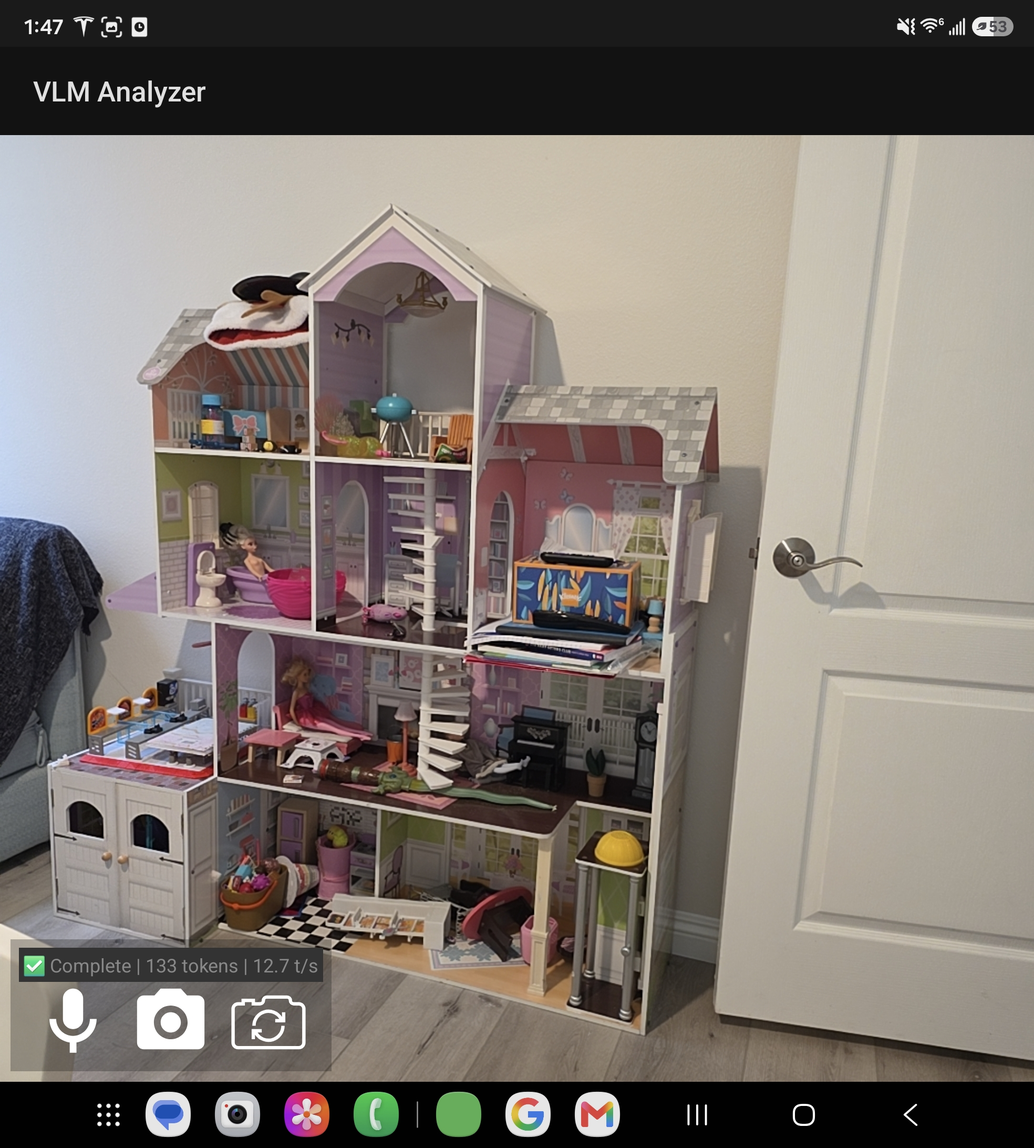
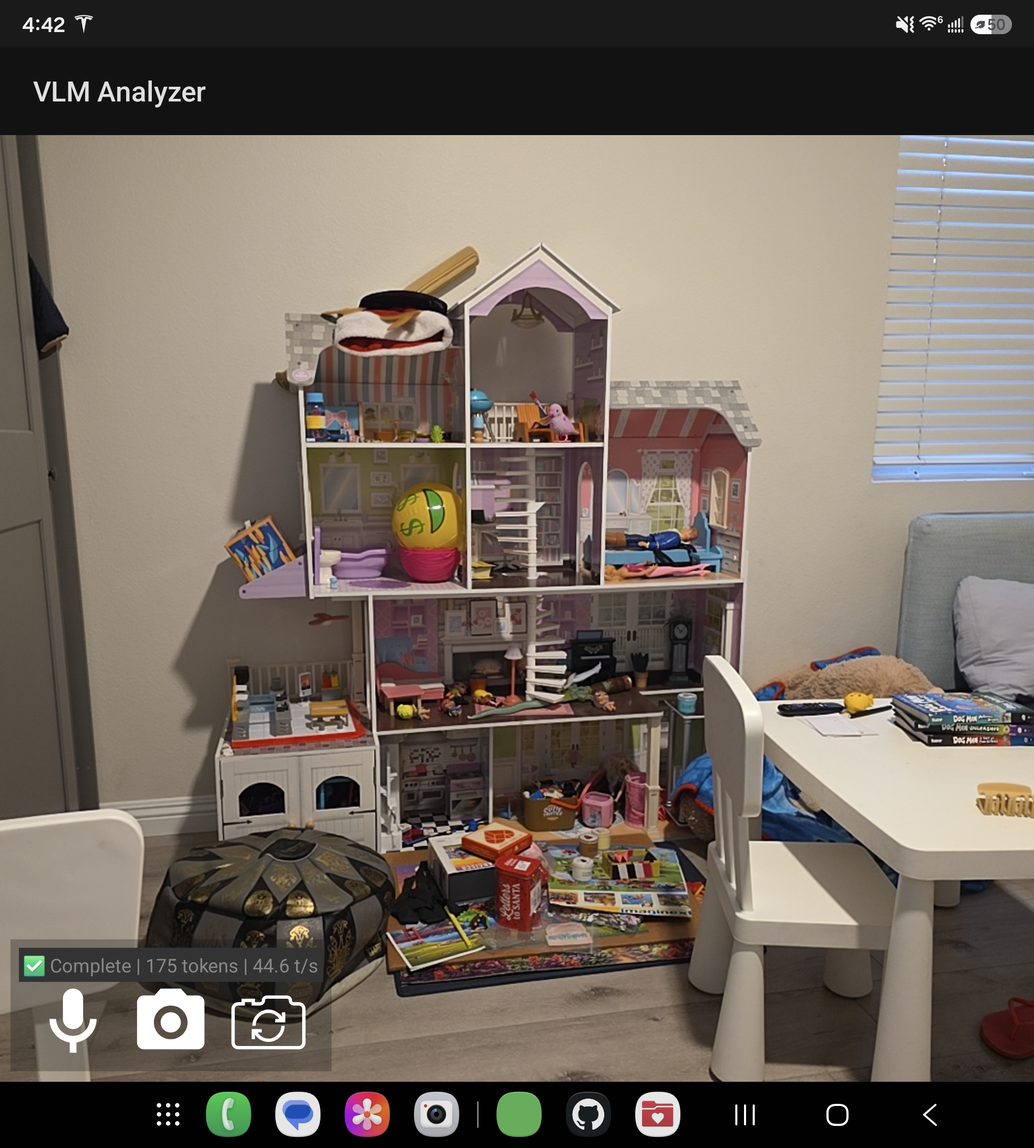
Update Some Typos in Readme and run-profile. Updated two images in README to latest release.

diff --git a/README.md b/README.md
@@ -349,8 +349,9 @@ For multimodal VLM inference, you need:
 1. **Model File** (`.gguf`): The VLM model weights
 2. **MMProj File** (`.gguf`): Multimodal projector for image encoding
 
-**Recommended:** [Qwen2-VL-2B-Bartowski](https://huggingface.co/bartowski/Qwen2-VL-2B-Instruct-GGUF) - Heavily tested, good quality/size balance.
-
+**Recommended: Heavily tested, good quality/size balance** 
+- [Qwen2-VL-2B-Bartowski](https://huggingface.co/bartowski/Qwen2-VL-2B-Instruct-GGUF)
+- [Qwen3.8-2B-Distill-heretic](https://huggingface.co/htb-ac-1424625/Qwen3.8-2B-Distill-heretic)
 ### Recommended Models (All Tested)
 
 | Model                              | Size    | Purpose                              |
@@ -359,8 +360,6 @@ For multimodal VLM inference, you need:
 | Qwen2-VL-2B-Bartowski-Q4_0         | ~1.4 GB | Smaller footprint, good quality      |
 | Qwen2-VL-2B-Bartowski-Q8_0         | ~2.8 GB | Higher quality, more memory          |
 | Qwen3.8-2B-Distill-heretic-Q4_K_M  | ~1.3 GB | Thinking model, 31–32 tk/s on NPU    |
-
-Qwen3.8 download: [Qwen3.8-2B-Distill-heretic](https://huggingface.co/htb-ac-1424625/Qwen3.8-2B-Distill-heretic)
 
 
 ### Pushing Models to Device
@@ -391,14 +390,14 @@ adb shell "ls -lh /data/local/tmp/llama.cpp/models/Qwen2-VL-2B/"
 - NPU uses 1 HTP session with the vision encoder on HTP
 - Profiler with HTP profiling off (`-HtpProfile 0`). See [PROFILE_TEST_README.md](profiler/PROFILE_TEST_README.md)
 
-| Model (Q4_K_M) | Backend | Decode    | Prefill Mean (Range)    | 130-Token Answer | Peak Temp    |
-|----------------|---------|-----------|-------------------------|------------------|--------------|
-| Qwen2-VL 2B    | **NPU** | **40.9 tk/s** | **0.72 s (0.50–0.96)** | **3.9 s**    | NPU 89.9°C   |
-| Qwen2-VL 2B    | GPU     | 29.5 tk/s | 4.62 s (1.87–7.74)      | 9.0 s            | GPU 93.0°C   |
-| Qwen2-VL 2B    | CPU     | 11.5 tk/s | 33.46 s (10.19–43.55)   | 44.8 s           | CPU 105.4°C  |
-| Qwen3.8 2B     | **NPU** | **30.9 tk/s** | **0.50 s (0.34–0.60)** | **4.7 s**    | NPU 89.2°C   |
-| Qwen3.8 2B     | GPU     | 21.8 tk/s | 3.52 s (1.06–5.08)      | 9.5 s            | GPU 89.6°C   |
-| Qwen3.8 2B     | CPU     | 10.4 tk/s | 15.42 s (4.23–20.83)    | 27.9 s           | CPU 105.4°C  |
+| Model (Q4_K_M) | Backend | Decode        | Prefill Mean (Range)   | 130-Token Answer | Peak Temp   |
+| -------------- | ------- | ------------- | ---------------------- | ---------------- | ----------- |
+| Qwen2-VL 2B    | **NPU** | **40.9 tk/s** | **0.72 s (0.50–0.96)** | **3.9 s**        | NPU 89.9°C  |
+| Qwen2-VL 2B    | GPU     | 29.5 tk/s     | 4.62 s (1.87–7.74)     | 9.0 s            | GPU 93.0°C  |
+| Qwen2-VL 2B    | CPU     | 11.5 tk/s     | 33.46 s (10.19–43.55)  | 44.8 s           | CPU 105.4°C |
+| Qwen3.8 2B     | **NPU** | **30.9 tk/s** | **0.50 s (0.34–0.60)** | **4.7 s**        | NPU 89.2°C  |
+| Qwen3.8 2B     | GPU     | 21.8 tk/s     | 3.52 s (1.06–5.08)     | 9.5 s            | GPU 89.6°C  |
+| Qwen3.8 2B     | CPU     | 10.4 tk/s     | 15.42 s (4.23–20.83)   | 27.9 s           | CPU 105.4°C |
 
 *130-Token Answer is mean prefill plus 130 tokens at mean decode speed. Each run processed the 10 images with no pause, after a cooldown. The GPU clock throttled from 1200 MHz to as low as 443 MHz, which is why GPU prefill varies so much. Answer lengths differ between runs, and Qwen3.8 decode includes thinking tokens.*
 
